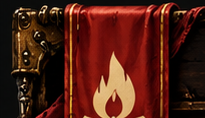
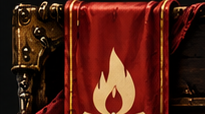
v0.1.7: Schwarzen Rand über der Kopfzeile entfernt, Warnung bei veralteten Dateien im Zwischenspeicher
Claude-Session: https://claude.ai/code/session_01U8x9xb4N9r57a1ymDrSWaz

diff --git a/styles/camp.css b/styles/camp.css
@@ -55,8 +55,8 @@
 /* --- Kopfzeile: linke Kappe + gestrecktes Holz + rechte Kappe --- */
 #camp-rest-app .window-header {
   position: relative;
-  height: 87px;
-  min-height: 87px;
+  height: 84px;
+  min-height: 84px;
   margin: 0;
   padding: 0 140px 0 156px;
   gap: 10px;
@@ -72,7 +72,7 @@
   flex: 0 0 auto;
   width: 62px;
   height: 48px;
-  margin-top: 3px;
+  margin-top: 0;
   font-size: 0;
   background: #ecdcb7;
   -webkit-mask: url("../assets/icon-tent.png") center / contain no-repeat;
@@ -80,7 +80,7 @@
 }
 #camp-rest-app .window-icon::before { content: none; }
 #camp-rest-app .window-title {
-  margin: 4px 0 0;
+  margin: 1px 0 0;
   border: none;
   font-family: var(--cr-serif);
   font-weight: 700;
@@ -92,7 +92,7 @@
 /* Knöpfe als gemalte Medaillons im Rahmen */
 #camp-rest-app .window-header .header-control {
   position: absolute;
-  top: 5px;
+  top: 2px;
   right: 82px;
   width: 46px;
   height: 46px;
@@ -111,7 +111,7 @@
 }
 #camp-rest-app .window-header .header-control + .header-control:not([data-action="close"]) { right: 132px; }
 #camp-rest-app .window-header .header-control[data-action="close"] {
-  top: -1px;
+  top: -2.2px;
   right: 19px;
   width: 58px;
   height: 58px;
@@ -138,7 +138,7 @@
 #camp-rest-app .cr-deco > div { position: absolute; background-repeat: no-repeat; background-size: 100% 100%; z-index: 5; }
 #camp-rest-app.minimized .cr-deco { display: none; }
 #camp-rest-app .cr-deco > .cr-frame {
-  top: 87px;
+  top: 84px;
   left: 0;
   right: 0;
   bottom: 0;
@@ -147,11 +147,11 @@
   border-width: 0 var(--cr-post) var(--cr-beam) var(--cr-post);
   border-image: url("../assets/ui/frame.png") 0 45 48 44 / 0 var(--cr-post) var(--cr-beam) var(--cr-post) round;
 }
-#camp-rest-app .cr-curtain.left { left: 0; top: 1.5px; width: 154px; height: 582px; background-image: url("../assets/curtain-left.png"); }
-#camp-rest-app .cr-curtain.right { right: 0; top: 0; width: 202px; height: 615px; background-image: url("../assets/curtain-right.png"); }
+#camp-rest-app .cr-curtain.left { left: 0; top: -1.5px; width: 154px; height: 582px; background-image: url("../assets/curtain-left.png"); }
+#camp-rest-app .cr-curtain.right { right: 0; top: -3px; width: 202px; height: 615px; background-image: url("../assets/curtain-right.png"); }
 #camp-rest-app .cr-corner.br { right: 0; bottom: 0; width: 79px; height: 82px; background-image: url("../assets/corner-br.png"); }
-#camp-rest-app .cr-banner { left: 42.8px; top: -1.5px; width: 85.6px; height: 168.3px; background-image: url("../assets/banner.png"); }
-#camp-rest-app .cr-lantern { right: 22.9px; top: 35.4px; width: 69.4px; height: 190.4px; background-image: url("../assets/lantern.png"); }
+#camp-rest-app .cr-banner { left: 42.8px; top: -4.5px; width: 85.6px; height: 168.3px; background-image: url("../assets/banner.png"); }
+#camp-rest-app .cr-lantern { right: 22.9px; top: 32.4px; width: 69.4px; height: 190.4px; background-image: url("../assets/lantern.png"); }
 #camp-rest-app .cr-glow {
   position: absolute;
   left: 50%;

diff --git a/scripts/main.js b/scripts/main.js
@@ -7,6 +7,8 @@
 import { campView, DECO_HTML } from "./view.js";
 
 const MOD = "ascandir-rest-manager";
+/** Wird beim Veröffentlichen automatisch durch die Versionsnummer ersetzt. */
+const CODE_VERSION = "__VERSION__";
 const SOCKET = `module.${MOD}`;
 const { ApplicationV2, DialogV2 } = foundry.applications.api;
 
@@ -741,7 +743,16 @@ async function migrateOldSettings() {
   if (moved) ui.notifications.info("Ascandir - Rest Manager: Einstellungen aus der alten Version übernommen.");
 }
 
+/** Warnen, wenn ein Client noch alte Moduldateien aus dem Zwischenspeicher lädt. */
+function checkStaleCache() {
+  const installed = game.modules.get(MOD)?.version;
+  if (!installed || CODE_VERSION.startsWith("__") || installed === CODE_VERSION) return;
+  ui.notifications.warn(`Ascandir - Rest Manager: Dieser Client nutzt noch alte Dateien (${CODE_VERSION} statt ${installed}). `
+    + "Bitte mit Strg+Shift+R bzw. Strg+F5 neu laden.", { permanent: true });
+}
+
 Hooks.once("ready", () => {
+  checkStaleCache();
   migrateOldSettings().catch((err) => console.warn(`${MOD} | Übernahme alter Einstellungen fehlgeschlagen`, err));
 
   game.socket.on(SOCKET, (payload) => {
